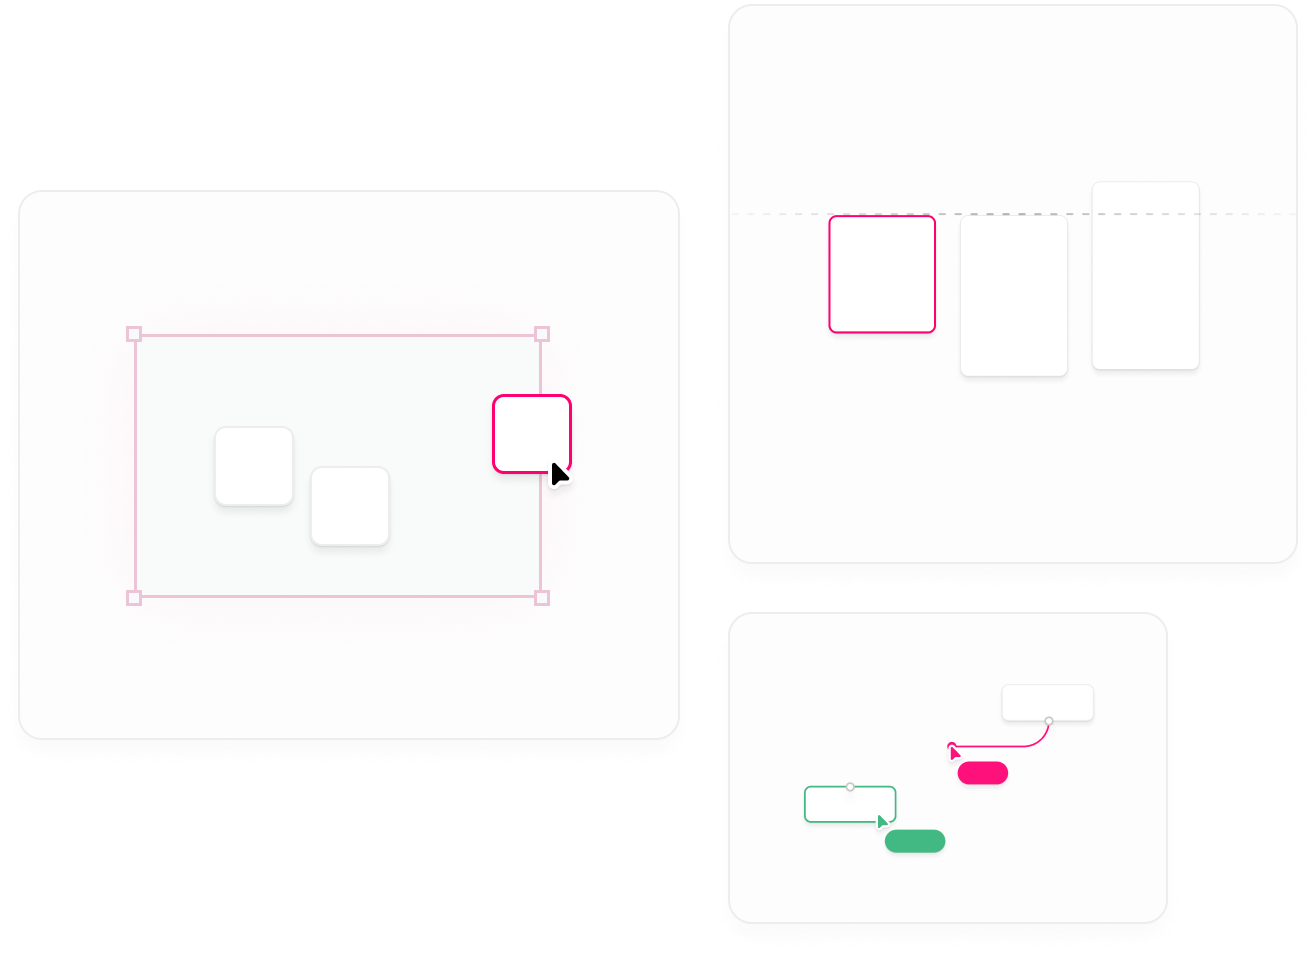
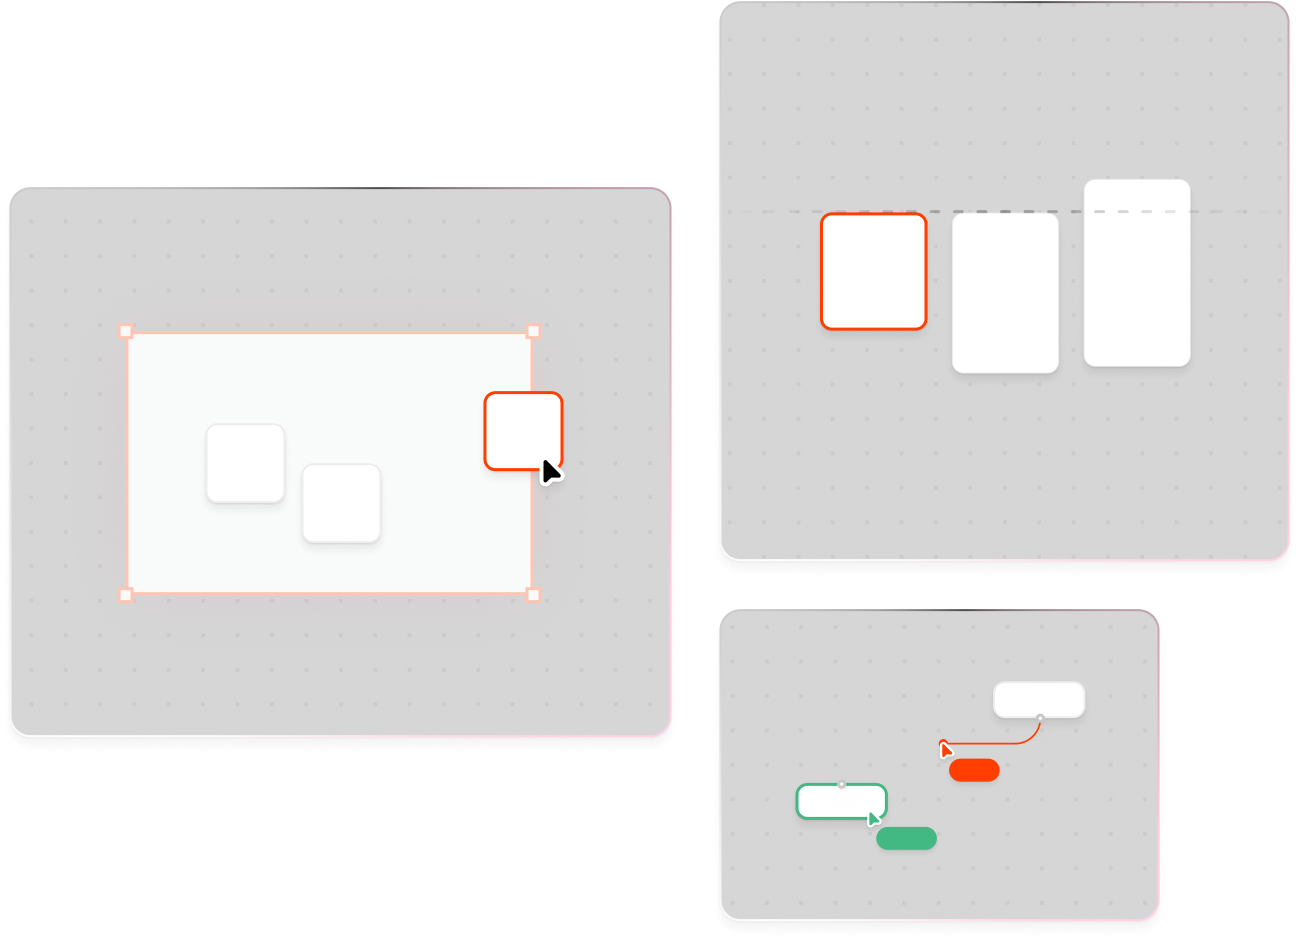
fix pro examples content hero image

diff --git a/packages/xy-shared/components/pro/ProExamplesMarketing/index.tsx b/packages/xy-shared/components/pro/ProExamplesMarketing/index.tsx
@@ -27,11 +27,11 @@ import {
 import type { MdxFile } from 'nextra';
 import { getExamplesPageMap } from '../../../server/example-utils';
 import { getFramework } from '../../../lib/get-framework';
+import { ThemeAwareImage } from '../../theme-aware-image';
 
 /** Served from each site's public folder at /img/pro/... */
 const IMG = {
   star: '/img/pro/star.svg',
-  hero: '/img/pro/pro-examples.png',
   helperLines: '/img/pro/helper-lines-pro-example.jpg',
 } as const;
 
@@ -126,13 +126,14 @@ export const ProExamplesMarketing: FC<ProExamplesMarketingProps> = async ({
         }
         backgroundVariant="image"
       >
-        <Image
-          src={IMG.hero}
+        <ThemeAwareImage
+          lightSrc={'/img/pro/pro-examples.png'}
+          darkSrc={'/img/pro/pro-examples-dark.png'}
           alt="Overview of the pro example apps"
           width={640}
           height={460}
-          className="hidden lg:block"
-          priority
+          preload
+          className="max-lg:hidden"
           style={{ objectFit: 'contain' }}
         />
       </Hero>
